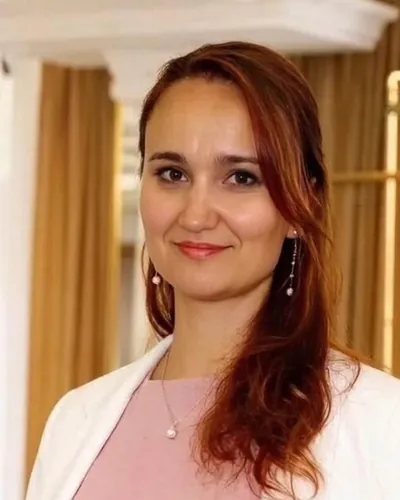
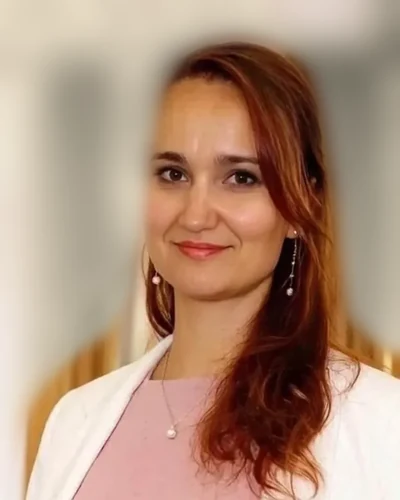
feat: правки владельца круг 10 — значок MAX в палитре сайта, ретушь портрета
- Значок MAX: форма из логотипа, но одноцветная (маска + currentColor):
  в подвале белый на голубом круге как остальные иконки, в кнопке — цветом
  текста. Маска встроена data-URI (внешний файл не грузится по file://)
- Портрет в контактах: фон размыт (портретное размытие), шторы перекрашены
  в кремовый; лицо и волосы не тронуты

diff --git a/src/css/carousel.css b/src/css/carousel.css
@@ -1254,14 +1254,18 @@ h1, h2, h3, h4 { color: var(--color-ink); }
   transition: background-color var(--transition), transform var(--transition);
 }
 .social__icon svg { width: 22px; height: 22px; }
-/* MAX в подвале — фирменный значок, без голубого круга под ним */
-.social__icon--brand { background-color: transparent; }
-.social__icon--brand img {
+/* Значок MAX — форма из фирменного логотипа, но одноцветная: красится
+   в currentColor через маску, поэтому в подвале он белый на голубом круге,
+   как остальные иконки, а в кнопке — тёмный (цвет текста). */
+.max-mark {
   display: block;
-  width: 44px;
-  height: 44px;
-  border-radius: 12px;
+  background-color: currentColor;
+  /* маска встроена data-URI: внешний файл не грузится по file:// (CORS) */
[1 lines of base64/hex data omitted]
+  -webkit-mask: var(--max-mark-src) center / contain no-repeat;
+  mask: var(--max-mark-src) center / contain no-repeat;
 }
+.social__icon .max-mark { width: 22px; height: 22px; }
 .social__label {
   font-size: .72rem;
   line-height: 1.2;
@@ -1344,14 +1348,11 @@ h1, h2, h3, h4 { color: var(--color-ink); }
 }
 .btn__icon { width: 20px; height: 20px; flex: 0 0 auto; }
 
-/* Логотип MAX из фирменного значка (не линейная иконка): 24px, скругление
-   как у самого значка, чтобы на белой кнопке не было «квадрата в квадрате». */
+/* Значок MAX в кнопке — та же маска, 22px, цвет текста кнопки. */
 .btn__logo {
-  width: 24px;
-  height: 24px;
+  width: 22px;
+  height: 22px;
   flex: 0 0 auto;
-  border-radius: 6px;
-  display: block;
 }
 
 /* Пара кнопок в контактах: стоят рядом, переносятся на узком экране,

diff --git a/src/contacts.html b/src/contacts.html
@@ -10,7 +10,7 @@
   <link rel="preconnect" href="https://fonts.gstatic.com" crossorigin>
   <link rel="stylesheet" href="https://fonts.googleapis.com/css2?family=Manrope:wght@400;500;600;700&family=Playfair+Display:ital,wght@0,400;0,500;0,600;1,400&display=swap">
   <link rel="stylesheet" href="css/styles.css?v=bf9042cc">
-  <link rel="stylesheet" href="css/carousel.css?v=5bc6d740">
+  <link rel="stylesheet" href="css/carousel.css?v=613b3927">
   <script src="js/main.js?v=6dda1926" defer></script>
   <title>Контакты — Юлия Таранникова, дизайн интерьера</title>
   <meta name="description" content="Свяжитесь со мной: Telegram @JuliayTara, канал @homest_jul, канал в Max jt_design, ВКонтакте. Подберу оптимальный пакет услуг под ваш проект. г. Москва.">
@@ -73,9 +73,7 @@
                 Написать в Telegram
               </a>
               <a class="btn btn--max btn--lg" href="https://max.ru/u/f9LHodD0cOKfhZ-4CxuLJGO10TM4eyoZXmt1RTWYaGpOwDhdNoSZGGR1Uvk" rel="noopener">
-                <img class="btn__logo" src="assets/img/max-logo.webp?v=aebbb50f"
-                     srcset="assets/img/max-logo-48.webp?v=b5f0d28b 48w, assets/img/max-logo.webp?v=aebbb50f 192w"
-                     sizes="24px" width="192" height="192" alt="" loading="lazy" decoding="async">
+                <span class="btn__logo max-mark"></span>
                 Написать в MAX
               </a>
             </p>
@@ -112,8 +110,8 @@
 
           <div class="contacts-photo">
             <figure class="media media--4x5 contact-photo">
-              <img src="assets/img/julia-1.webp?v=40abbbb7"
-                   srcset="assets/img/julia-1-400.webp?v=fb044bef 400w, assets/img/julia-1-800.webp?v=77e780bb 800w, assets/img/julia-1.webp?v=40abbbb7 820w"
+              <img src="assets/img/julia-1.webp?v=5c278a66"
+                   srcset="assets/img/julia-1-400.webp?v=a1e1ffd2 400w, assets/img/julia-1-800.webp?v=43af861b 800w, assets/img/julia-1.webp?v=5c278a66 820w"
                    sizes="(min-width: 768px) 45vw, 100vw"
                    width="820" height="1025"
                    alt="Юлия Таранникова — дизайнер интерьера"
@@ -200,7 +198,7 @@
             </li>
             <li>
               <a class="social__link" href="https://max.ru/channel_jt_design" target="_blank" rel="noopener" title="МАКС — канал jt_design">
-                <span class="social__icon social__icon--brand" aria-hidden="true"><img src="assets/img/max-logo.webp?v=aebbb50f" srcset="assets/img/max-logo-48.webp?v=b5f0d28b 48w, assets/img/max-logo.webp?v=aebbb50f 192w" sizes="44px" width="192" height="192" alt="" loading="lazy" decoding="async"></span>
+                <span class="social__icon" aria-hidden="true"><span class="max-mark"></span></span>
                 <span class="social__label">МАКС</span>
               </a>
             </li>

diff --git a/src/index.html b/src/index.html
@@ -10,7 +10,7 @@
   <link rel="preconnect" href="https://fonts.gstatic.com" crossorigin>
   <link rel="stylesheet" href="https://fonts.googleapis.com/css2?family=Manrope:wght@400;500;600;700&family=Playfair+Display:ital,wght@0,400;0,500;0,600;1,400&display=swap">
   <link rel="stylesheet" href="css/styles.css?v=bf9042cc">
-  <link rel="stylesheet" href="css/carousel.css?v=5bc6d740">
+  <link rel="stylesheet" href="css/carousel.css?v=613b3927">
   <script src="js/main.js?v=6dda1926" defer></script>
   <title>Юлия Таранникова — дизайн интерьера, планировка и комплектация</title>
   <meta name="description" content="Дизайнер интерьера Юлия Таранникова: планировка с законной перепланировкой, комплектация под сдачу в аренду или для жизни. Москва и онлайн по России.">
@@ -361,8 +361,8 @@
       <div class="container about">
         <div class="about__photo">
           <figure class="media media--4x5">
-            <img src="assets/img/julia-1.webp?v=40abbbb7"
-                 srcset="assets/img/julia-1-400.webp?v=fb044bef 400w, assets/img/julia-1-800.webp?v=77e780bb 800w, assets/img/julia-1.webp?v=40abbbb7 820w"
+            <img src="assets/img/julia-1.webp?v=5c278a66"
+                 srcset="assets/img/julia-1-400.webp?v=a1e1ffd2 400w, assets/img/julia-1-800.webp?v=43af861b 800w, assets/img/julia-1.webp?v=5c278a66 820w"
                  sizes="(min-width: 768px) 40vw, 100vw"
                  width="820" height="1025"
                  alt="Юлия Таранникова — дизайнер интерьера"
@@ -559,7 +559,7 @@
             </li>
             <li>
               <a class="social__link" href="https://max.ru/channel_jt_design" target="_blank" rel="noopener" title="МАКС — канал jt_design">
-                <span class="social__icon social__icon--brand" aria-hidden="true"><img src="assets/img/max-logo.webp?v=aebbb50f" srcset="assets/img/max-logo-48.webp?v=b5f0d28b 48w, assets/img/max-logo.webp?v=aebbb50f 192w" sizes="44px" width="192" height="192" alt="" loading="lazy" decoding="async"></span>
+                <span class="social__icon" aria-hidden="true"><span class="max-mark"></span></span>
                 <span class="social__label">МАКС</span>
               </a>
             </li>

diff --git a/src/services.html b/src/services.html
@@ -10,7 +10,7 @@
   <link rel="preconnect" href="https://fonts.gstatic.com" crossorigin>
   <link rel="stylesheet" href="https://fonts.googleapis.com/css2?family=Manrope:wght@400;500;600;700&family=Playfair+Display:ital,wght@0,400;0,500;0,600;1,400&display=swap">
   <link rel="stylesheet" href="css/styles.css?v=bf9042cc">
-  <link rel="stylesheet" href="css/carousel.css?v=5bc6d740">
+  <link rel="stylesheet" href="css/carousel.css?v=613b3927">
   <script src="js/main.js?v=6dda1926" defer></script>
   <title>Услуги и тарифы — Юлия Таранникова</title>
   <meta name="description" content="Услуги дизайнера интерьера: планировка, визуализация, полный дизайн-проект, подготовка квартиры к аренде или продаже. Тарифы: 800 ₽/м², 1 500 ₽/м², 3 000 ₽/м², авторское сопровождение 5 000 ₽ за выезд.">
@@ -279,7 +279,7 @@
             </li>
             <li>
               <a class="social__link" href="https://max.ru/channel_jt_design" target="_blank" rel="noopener" title="МАКС — канал jt_design">
-                <span class="social__icon social__icon--brand" aria-hidden="true"><img src="assets/img/max-logo.webp?v=aebbb50f" srcset="assets/img/max-logo-48.webp?v=b5f0d28b 48w, assets/img/max-logo.webp?v=aebbb50f 192w" sizes="44px" width="192" height="192" alt="" loading="lazy" decoding="async"></span>
+                <span class="social__icon" aria-hidden="true"><span class="max-mark"></span></span>
                 <span class="social__label">МАКС</span>
               </a>
             </li>

diff --git a/src/project-remont-2k.html b/src/project-remont-2k.html
@@ -10,7 +10,7 @@
   <link rel="preconnect" href="https://fonts.gstatic.com" crossorigin>
   <link rel="stylesheet" href="https://fonts.googleapis.com/css2?family=Manrope:wght@400;500;600;700&family=Playfair+Display:ital,wght@0,400;0,500;0,600;1,400&display=swap">
   <link rel="stylesheet" href="css/styles.css?v=bf9042cc">
-  <link rel="stylesheet" href="css/carousel.css?v=5bc6d740">
+  <link rel="stylesheet" href="css/carousel.css?v=613b3927">
   <script src="js/main.js?v=6dda1926" defer></script>
   <title>2-комнатная 66 м²: капитальный ремонт и комплектация — проект Юлии Таранниковой</title>
   <meta name="description" content="Капитальный ремонт 2-комнатной квартиры 66 м² под сдачу в аренду: демонтаж, черновые и чистовые работы, инженерные решения и комплектация под ключ.">
@@ -411,7 +411,7 @@
             </li>
             <li>
               <a class="social__link" href="https://max.ru/channel_jt_design" target="_blank" rel="noopener" title="МАКС — канал jt_design">
-                <span class="social__icon social__icon--brand" aria-hidden="true"><img src="assets/img/max-logo.webp?v=aebbb50f" srcset="assets/img/max-logo-48.webp?v=b5f0d28b 48w, assets/img/max-logo.webp?v=aebbb50f 192w" sizes="44px" width="192" height="192" alt="" loading="lazy" decoding="async"></span>
+                <span class="social__icon" aria-hidden="true"><span class="max-mark"></span></span>
                 <span class="social__label">МАКС</span>
               </a>
             </li>

diff --git a/src/etapy.html b/src/etapy.html
@@ -10,7 +10,7 @@
   <link rel="preconnect" href="https://fonts.gstatic.com" crossorigin>
   <link rel="stylesheet" href="https://fonts.googleapis.com/css2?family=Manrope:wght@400;500;600;700&family=Playfair+Display:ital,wght@0,400;0,500;0,600;1,400&display=swap">
   <link rel="stylesheet" href="css/styles.css?v=bf9042cc">
-  <link rel="stylesheet" href="css/carousel.css?v=5bc6d740">
+  <link rel="stylesheet" href="css/carousel.css?v=613b3927">
   <script src="js/main.js?v=6dda1926" defer></script>
   <title>Этапы дизайн-проекта — Юлия Таранникова</title>
   <meta name="description" content="Семь этапов дизайн-проекта: обмер и консультация, планировочное решение, коллажи, визуализации, рабочая документация, комплектация, авторское сопровождение.">
@@ -321,7 +321,7 @@
             </li>
             <li>
               <a class="social__link" href="https://max.ru/channel_jt_design" target="_blank" rel="noopener" title="МАКС — канал jt_design">
-                <span class="social__icon social__icon--brand" aria-hidden="true"><img src="assets/img/max-logo.webp?v=aebbb50f" srcset="assets/img/max-logo-48.webp?v=b5f0d28b 48w, assets/img/max-logo.webp?v=aebbb50f 192w" sizes="44px" width="192" height="192" alt="" loading="lazy" decoding="async"></span>
+                <span class="social__icon" aria-hidden="true"><span class="max-mark"></span></span>
                 <span class="social__label">МАКС</span>
               </a>
             </li>

diff --git a/src/portfolio.html b/src/portfolio.html
@@ -10,7 +10,7 @@
   <link rel="preconnect" href="https://fonts.gstatic.com" crossorigin>
   <link rel="stylesheet" href="https://fonts.googleapis.com/css2?family=Manrope:wght@400;500;600;700&family=Playfair+Display:ital,wght@0,400;0,500;0,600;1,400&display=swap">
   <link rel="stylesheet" href="css/styles.css?v=bf9042cc">
-  <link rel="stylesheet" href="css/carousel.css?v=5bc6d740">
+  <link rel="stylesheet" href="css/carousel.css?v=613b3927">
   <script src="js/main.js?v=6dda1926" defer></script>
   <title>Проекты — Юлия Таранникова, дизайн интерьера</title>
   <meta name="description" content="Реализованные проекты: студии, евро 2 и евро 3, 2-комнатные квартиры с перепланировкой и ремонт под ключ. Фото с реальных объектов.">
@@ -234,7 +234,7 @@
             </li>
             <li>
               <a class="social__link" href="https://max.ru/channel_jt_design" target="_blank" rel="noopener" title="МАКС — канал jt_design">
-                <span class="social__icon social__icon--brand" aria-hidden="true"><img src="assets/img/max-logo.webp?v=aebbb50f" srcset="assets/img/max-logo-48.webp?v=b5f0d28b 48w, assets/img/max-logo.webp?v=aebbb50f 192w" sizes="44px" width="192" height="192" alt="" loading="lazy" decoding="async"></span>
+                <span class="social__icon" aria-hidden="true"><span class="max-mark"></span></span>
                 <span class="social__label">МАКС</span>
               </a>
             </li>

diff --git a/src/blog.html b/src/blog.html
@@ -10,7 +10,7 @@
   <link rel="preconnect" href="https://fonts.gstatic.com" crossorigin>
   <link rel="stylesheet" href="https://fonts.googleapis.com/css2?family=Manrope:wght@400;500;600;700&family=Playfair+Display:ital,wght@0,400;0,500;0,600;1,400&display=swap">
   <link rel="stylesheet" href="css/styles.css?v=bf9042cc">
-  <link rel="stylesheet" href="css/carousel.css?v=5bc6d740">
+  <link rel="stylesheet" href="css/carousel.css?v=613b3927">
   <script src="js/main.js?v=6dda1926" defer></script>
   <title>Советы — Юлия Таранникова, дизайн интерьера</title>
   <meta name="description" content="Как сторона света меняет интерьер, как выбрать цветовую концепцию и цветовые решения для спальни, планировки для аренды.">
@@ -168,7 +168,7 @@
             </li>
             <li>
               <a class="social__link" href="https://max.ru/channel_jt_design" target="_blank" rel="noopener" title="МАКС — канал jt_design">
-                <span class="social__icon social__icon--brand" aria-hidden="true"><img src="assets/img/max-logo.webp?v=aebbb50f" srcset="assets/img/max-logo-48.webp?v=b5f0d28b 48w, assets/img/max-logo.webp?v=aebbb50f 192w" sizes="44px" width="192" height="192" alt="" loading="lazy" decoding="async"></span>
+                <span class="social__icon" aria-hidden="true"><span class="max-mark"></span></span>
                 <span class="social__label">МАКС</span>
               </a>
             </li>

diff --git a/src/project-euro3-green-park.html b/src/project-euro3-green-park.html
@@ -10,7 +10,7 @@
   <link rel="preconnect" href="https://fonts.gstatic.com" crossorigin>
   <link rel="stylesheet" href="https://fonts.googleapis.com/css2?family=Manrope:wght@400;500;600;700&family=Playfair+Display:ital,wght@0,400;0,500;0,600;1,400&display=swap">
   <link rel="stylesheet" href="css/styles.css?v=bf9042cc">
-  <link rel="stylesheet" href="css/carousel.css?v=5bc6d740">
+  <link rel="stylesheet" href="css/carousel.css?v=613b3927">
   <script src="js/main.js?v=6dda1926" defer></script>
   <title>Евро 3 ЖК Green Park — проект Юлии Таранниковой</title>
   <meta name="description" content="Евро 3, 56,7 м² в ЖК Green Park — квартира для аренды в нейтральных светлых тонах с тёплыми оттенками терракоты и зелени.">
@@ -331,7 +331,7 @@
             </li>
             <li>
               <a class="social__link" href="https://max.ru/channel_jt_design" target="_blank" rel="noopener" title="МАКС — канал jt_design">
-                <span class="social__icon social__icon--brand" aria-hidden="true"><img src="assets/img/max-logo.webp?v=aebbb50f" srcset="assets/img/max-logo-48.webp?v=b5f0d28b 48w, assets/img/max-logo.webp?v=aebbb50f 192w" sizes="44px" width="192" height="192" alt="" loading="lazy" decoding="async"></span>
+                <span class="social__icon" aria-hidden="true"><span class="max-mark"></span></span>
                 <span class="social__label">МАКС</span>
               </a>
             </li>

diff --git a/src/article-svet-i-storona-sveta.html b/src/article-svet-i-storona-sveta.html
@@ -10,7 +10,7 @@
   <link rel="preconnect" href="https://fonts.gstatic.com" crossorigin>
   <link rel="stylesheet" href="https://fonts.googleapis.com/css2?family=Manrope:wght@400;500;600;700&family=Playfair+Display:ital,wght@0,400;0,500;0,600;1,400&display=swap">
   <link rel="stylesheet" href="css/styles.css?v=bf9042cc">
-  <link rel="stylesheet" href="css/carousel.css?v=5bc6d740">
+  <link rel="stylesheet" href="css/carousel.css?v=613b3927">
   <script src="js/main.js?v=6dda1926" defer></script>
   <title>Свет и сторона света: как окна меняют интерьер — Юлия Таранникова</title>
   <meta name="description" content="Освещение и цветовая палитра — два ключевых элемента, которые формируют атмосферу.">
@@ -210,7 +210,7 @@
             </li>
             <li>
               <a class="social__link" href="https://max.ru/channel_jt_design" target="_blank" rel="noopener" title="МАКС — канал jt_design">
-                <span class="social__icon social__icon--brand" aria-hidden="true"><img src="assets/img/max-logo.webp?v=aebbb50f" srcset="assets/img/max-logo-48.webp?v=b5f0d28b 48w, assets/img/max-logo.webp?v=aebbb50f 192w" sizes="44px" width="192" height="192" alt="" loading="lazy" decoding="async"></span>
+                <span class="social__icon" aria-hidden="true"><span class="max-mark"></span></span>
                 <span class="social__label">МАКС</span>
               </a>
             </li>

diff --git a/src/article-kak-vybrat-cvet.html b/src/article-kak-vybrat-cvet.html
@@ -10,7 +10,7 @@
   <link rel="preconnect" href="https://fonts.gstatic.com" crossorigin>
   <link rel="stylesheet" href="https://fonts.googleapis.com/css2?family=Manrope:wght@400;500;600;700&family=Playfair+Display:ital,wght@0,400;0,500;0,600;1,400&display=swap">
   <link rel="stylesheet" href="css/styles.css?v=bf9042cc">
-  <link rel="stylesheet" href="css/carousel.css?v=5bc6d740">
+  <link rel="stylesheet" href="css/carousel.css?v=613b3927">
   <script src="js/main.js?v=6dda1926" defer></script>
   <title>Как не ошибиться с выбором цветовой концепции — Юлия Таранникова</title>
   <meta name="description" content="Самый универсальный выбор для комнаты — нейтральные цвета в качестве основных.">
@@ -208,7 +208,7 @@
             </li>
             <li>
               <a class="social__link" href="https://max.ru/channel_jt_design" target="_blank" rel="noopener" title="МАКС — канал jt_design">
-                <span class="social__icon social__icon--brand" aria-hidden="true"><img src="assets/img/max-logo.webp?v=aebbb50f" srcset="assets/img/max-logo-48.webp?v=b5f0d28b 48w, assets/img/max-logo.webp?v=aebbb50f 192w" sizes="44px" width="192" height="192" alt="" loading="lazy" decoding="async"></span>
+                <span class="social__icon" aria-hidden="true"><span class="max-mark"></span></span>
                 <span class="social__label">МАКС</span>
               </a>
             </li>

diff --git a/src/article-spalni-cvetovye-resheniya.html b/src/article-spalni-cvetovye-resheniya.html
@@ -10,7 +10,7 @@
   <link rel="preconnect" href="https://fonts.gstatic.com" crossorigin>
   <link rel="stylesheet" href="https://fonts.googleapis.com/css2?family=Manrope:wght@400;500;600;700&family=Playfair+Display:ital,wght@0,400;0,500;0,600;1,400&display=swap">
   <link rel="stylesheet" href="css/styles.css?v=bf9042cc">
-  <link rel="stylesheet" href="css/carousel.css?v=5bc6d740">
+  <link rel="stylesheet" href="css/carousel.css?v=613b3927">
   <script src="js/main.js?v=6dda1926" defer></script>
   <title>Спальни: пять цветовых решений — Юлия Таранникова</title>
   <meta name="description" content="Терракота, глубокий синий, мокко, мята и флористические обои — пять спален из моих проектов.">
@@ -212,7 +212,7 @@
             </li>
             <li>
               <a class="social__link" href="https://max.ru/channel_jt_design" target="_blank" rel="noopener" title="МАКС — канал jt_design">
-                <span class="social__icon social__icon--brand" aria-hidden="true"><img src="assets/img/max-logo.webp?v=aebbb50f" srcset="assets/img/max-logo-48.webp?v=b5f0d28b 48w, assets/img/max-logo.webp?v=aebbb50f 192w" sizes="44px" width="192" height="192" alt="" loading="lazy" decoding="async"></span>
+                <span class="social__icon" aria-hidden="true"><span class="max-mark"></span></span>
                 <span class="social__label">МАКС</span>
               </a>
             </li>
